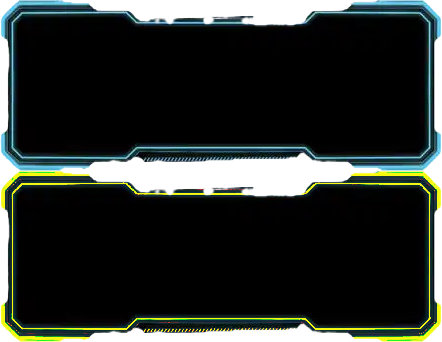
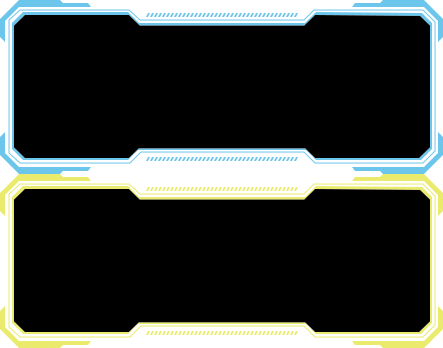
改进billboard背景图

Changed region(s): [[0.0, 0.0, 1.0, 1.0]]

diff --git a/src/myComponents/人影/editMap.vue b/src/myComponents/人影/editMap.vue
@@ -466,15 +466,15 @@ function updateTextLayer(textData:any) {
           marker: {
             x: 0,
             y: 0,
-            width: 442,
-            height: 171,
+            width: 443,
+            height: 174,
             mask: false,
           },
           active: {
             x: 0,
-            y: 171,
-            width: 442,
-            height: 171,
+            y: 174,
+            width: 443,
+            height: 174,
             mask: false,
           }
         },
